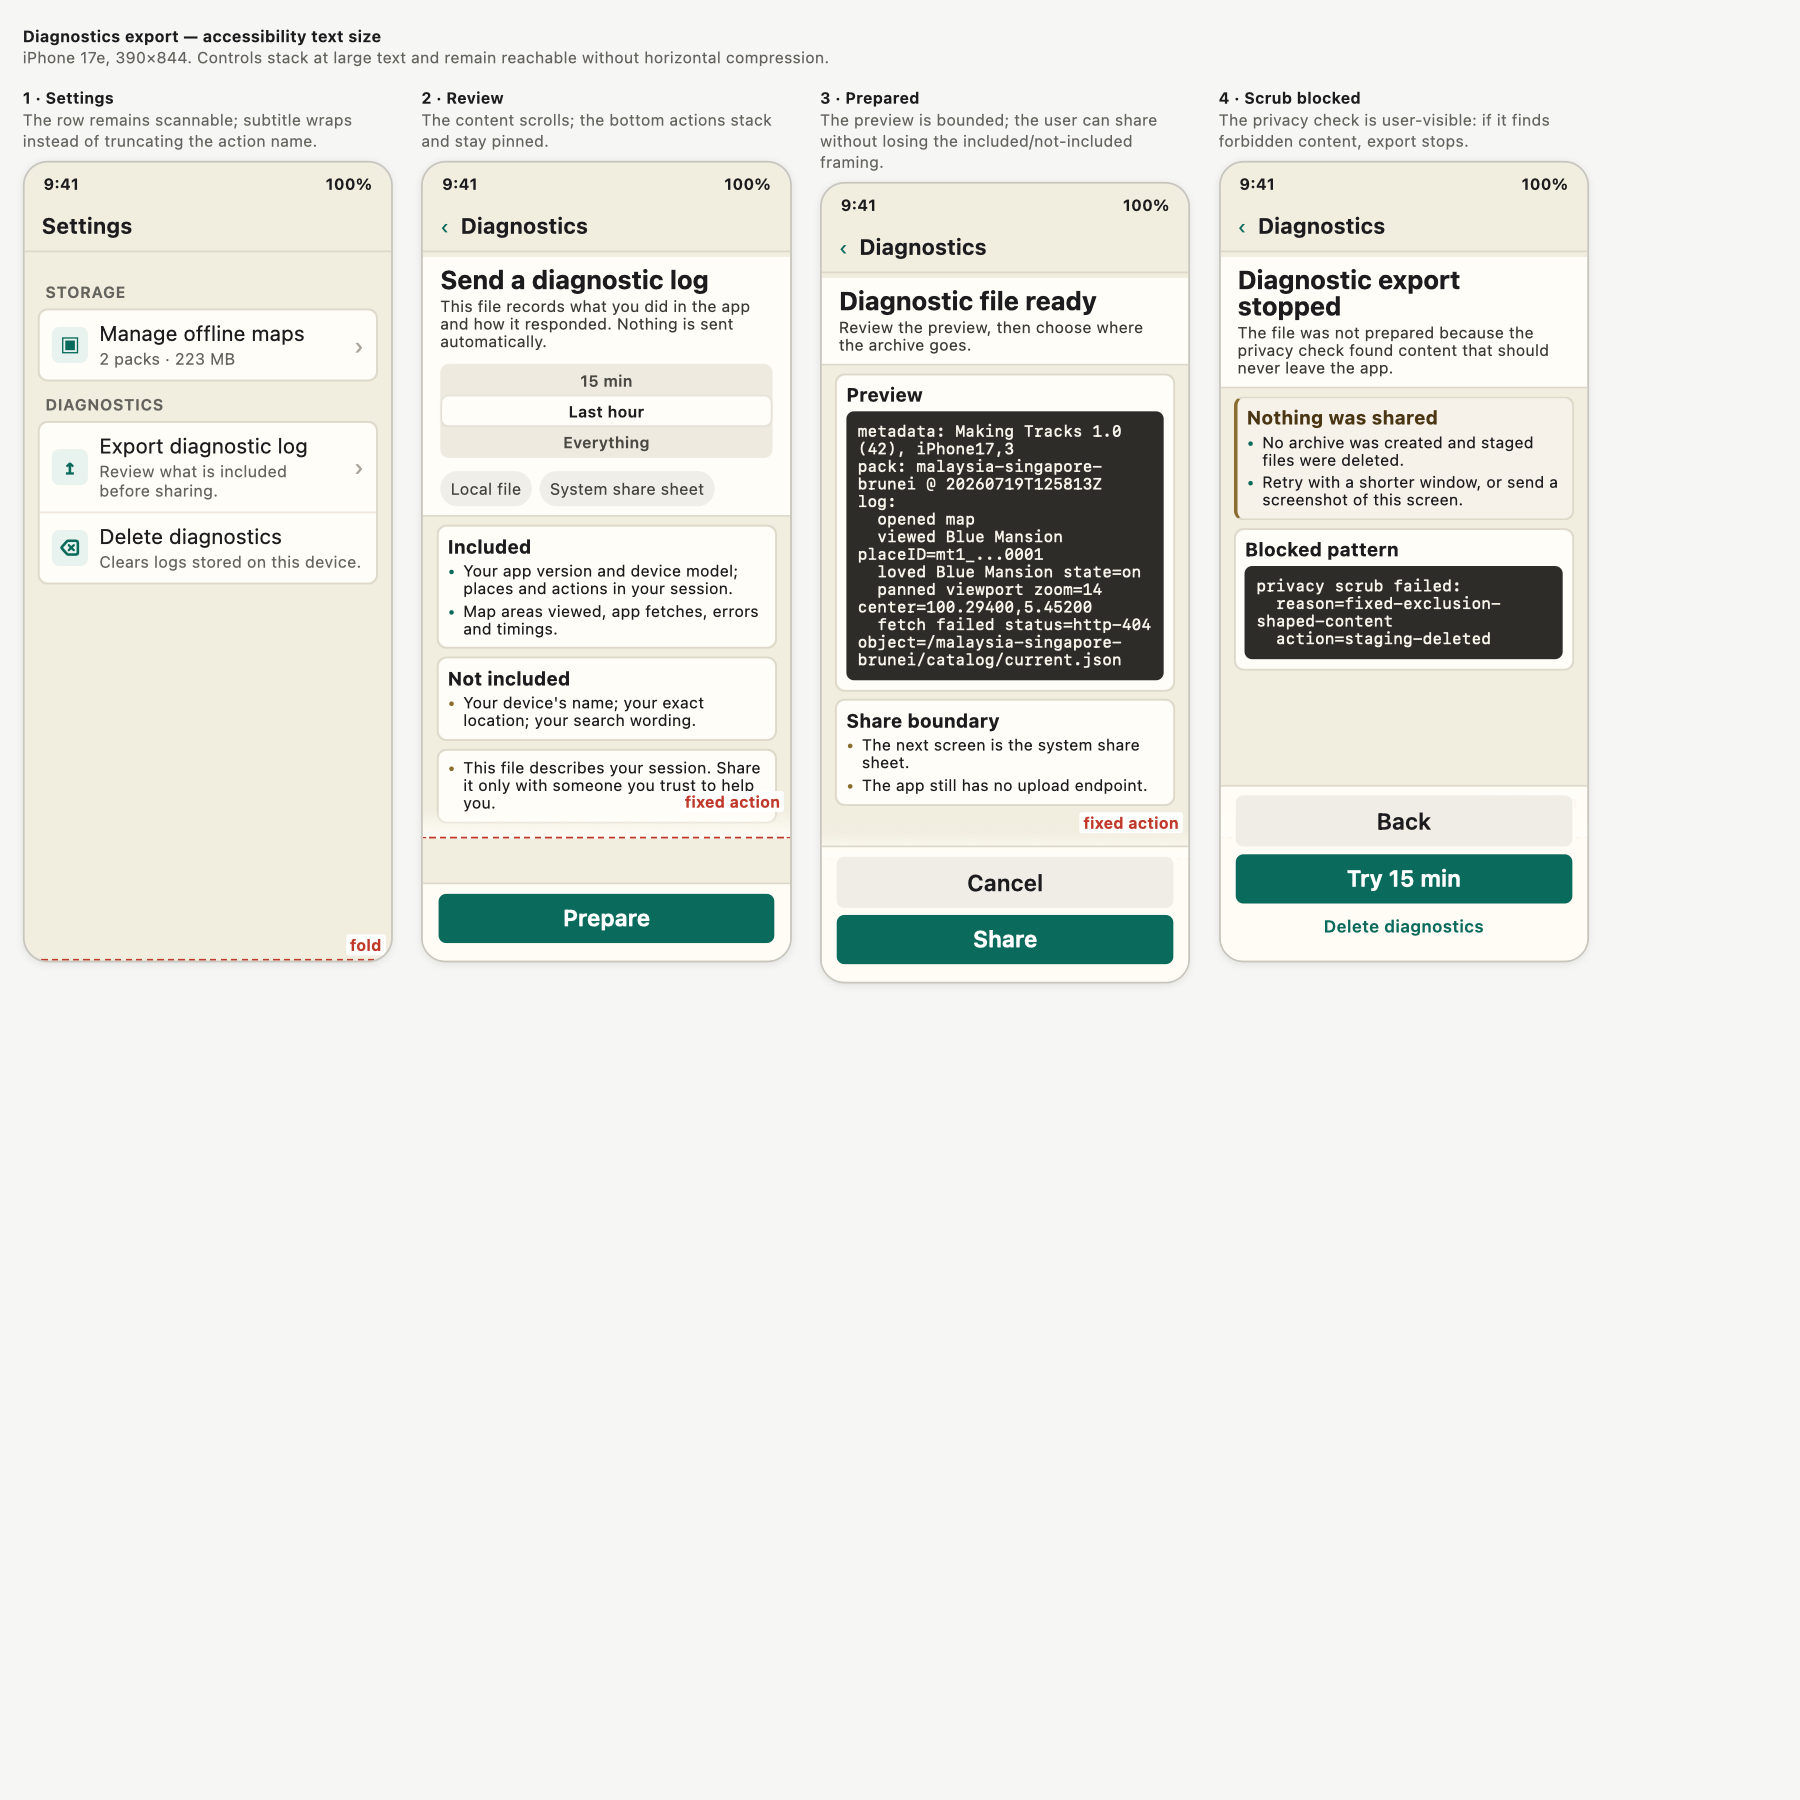
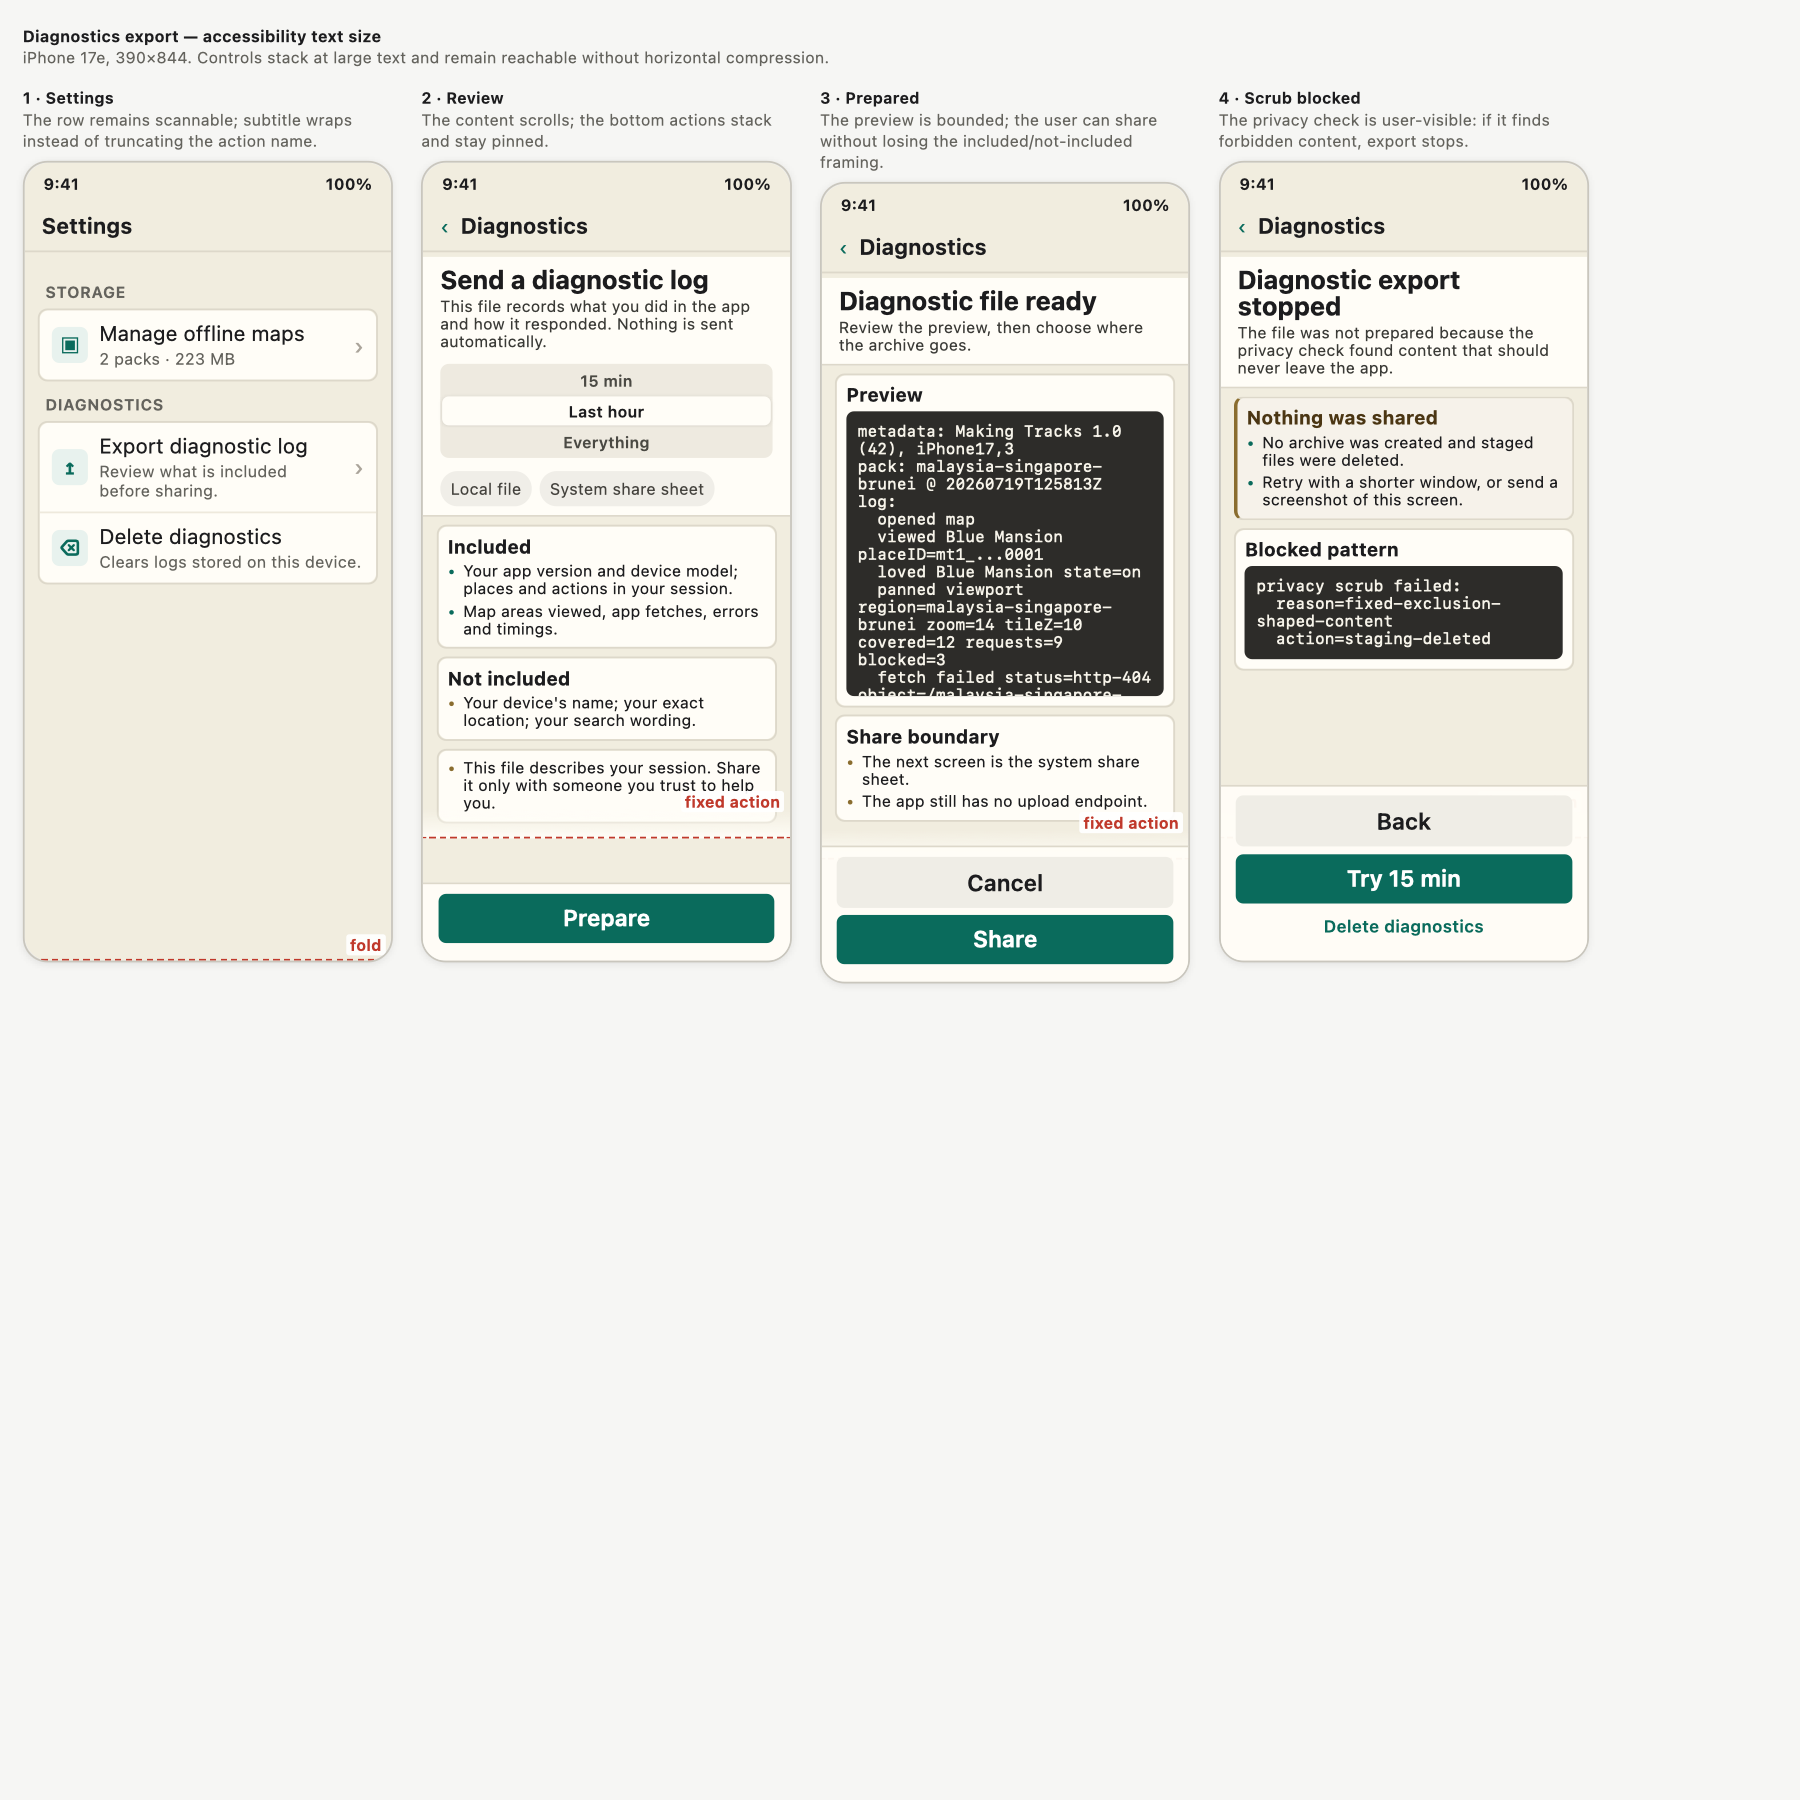
Update diagnostic mockups for viewport scale logs

Changed region(s): [[0.4667, 0.3111, 0.6533, 0.4667]]

diff --git a/docs/design/log-export/wf-diagnostics-ax.html b/docs/design/log-export/wf-diagnostics-ax.html
@@ -254,7 +254,7 @@ log:
   opened map
   viewed Blue Mansion placeID=mt1_...0001
   loved Blue Mansion state=on
-  panned viewport zoom=14 center=100.29400,5.45200
+  panned viewport region=malaysia-singapore-brunei zoom=14 tileZ=10 covered=12 requests=9 blocked=3
   fetch failed status=http-404 object=/malaysia-singapore-brunei/catalog/current.json</div>
         </div>
         <div class="panel not">

diff --git a/docs/design/log-export/wf-diagnostics-default.html b/docs/design/log-export/wf-diagnostics-default.html
@@ -249,7 +249,7 @@ log:
   opened map
   viewed Blue Mansion placeID=mt1_...0001
   loved Blue Mansion state=on
-  panned viewport zoom=14 center=100.29400,5.45200
+  panned viewport region=malaysia-singapore-brunei zoom=14 tileZ=10 covered=12 requests=9 blocked=3
   fetch failed status=http-404 object=/malaysia-singapore-brunei/catalog/current.json</div>
       </div>
       <div class="panel not">

diff --git a/docs/design/log-export/README.md b/docs/design/log-export/README.md
@@ -23,4 +23,4 @@ Validation notes:
 - Raw preview shows a plaintext session flow; no decode table is present.
 - The not-included privacy promise is exactly device name, exact location and search wording in default and accessibility-size renders.
 - Scrub failure is a user-visible, fail-closed state.
-- Plaintext pack metadata, place identity, viewport extent and object URLs are deliberate: the user chooses to share a file that reconstructs the session flow.
+- Plaintext pack metadata, place identity, viewport scale and object URLs are deliberate: the user chooses to share a file that reconstructs the session flow without exact coordinates.
